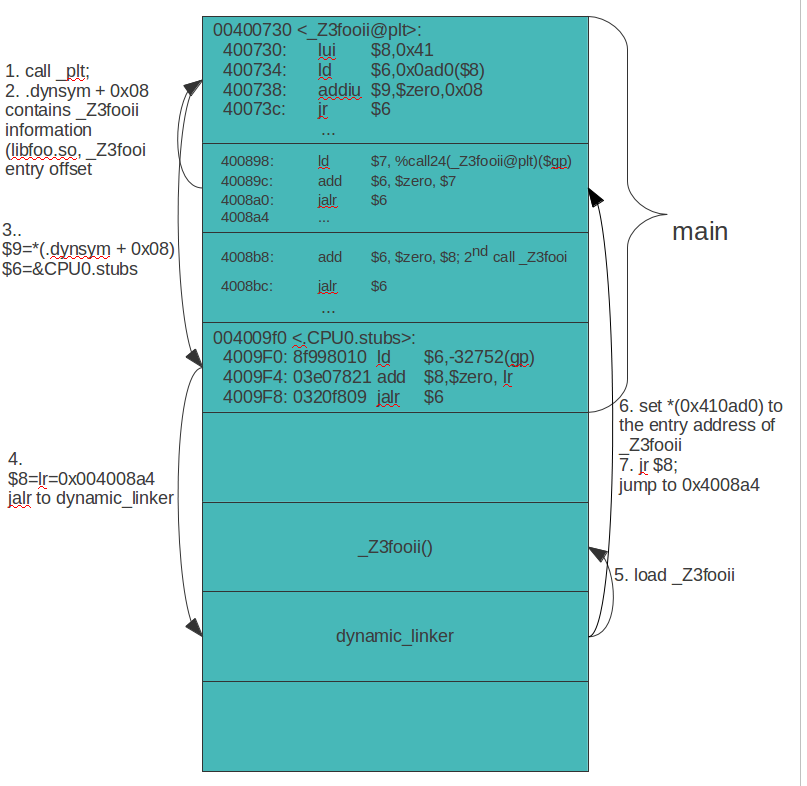
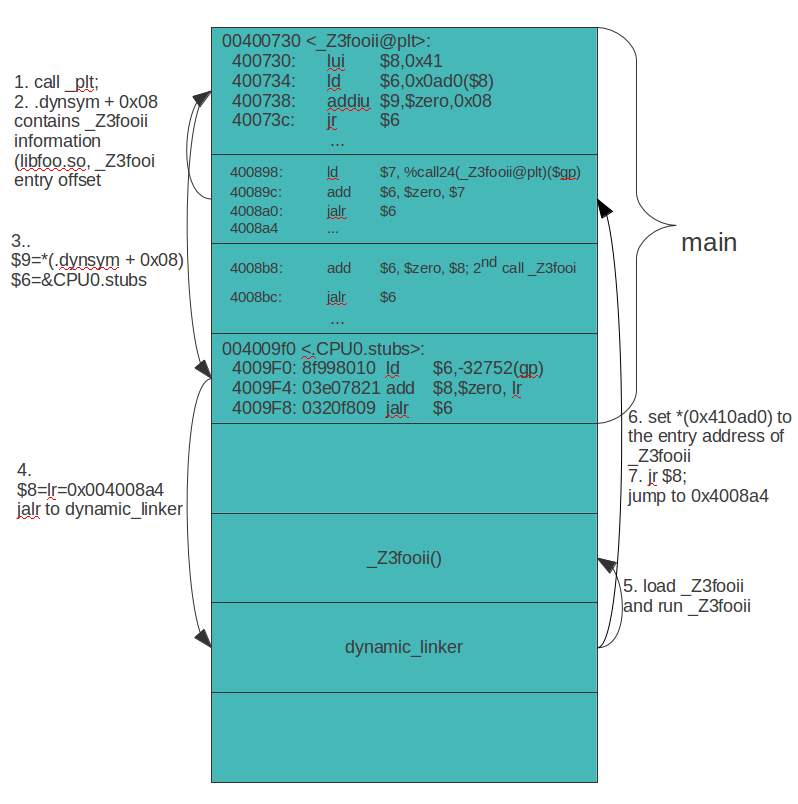
Add dynamic link section in elf.rst

Changed region(s): [[0.0, 0.0, 0.9925, 1.0], [0.4211, 0.7939, 0.5714, 0.8244], [0.4511, 0.6718, 0.5414, 0.7023]]

diff --git a/docs/BackendTutorial/source/elf.rst b/docs/BackendTutorial/source/elf.rst
@@ -954,12 +954,16 @@ Dynamic link
 -------------
 
 We expain how the dynamic link work for Cpu0 even though the Cpu0 linker and 
-dynamic linker are not exist at this point. We have check this implementation 
-by check Mips ABI and lldb or gdb with X86 platform. Finding them all use the 
-plt as the dynamic link implementation. 
+dynamic linker not exist at this point. Same with other parts, Cpu0 dynamic link 
+implementation borrowed from Mips ABI. We trace the dynamic link implementation 
+by lldb on X86 platform. Finding X86 and Mips all use the plt as the dynamic link 
+implementation. 
 
 Linker support
 ~~~~~~~~~~~~~~~
+
+In this section, it shows what's the code that comipler generate to support 
+dynamic link. And what's the code generated by linker for dyanmic link.
 
 Compile main.cpp to get the Cpu0 PIC assembly code as follows,
 
@@ -1052,8 +1056,8 @@ Compile main.cpp to get the Cpu0 PIC assembly code as follows,
   28 R_CPU0_32 .text
 
 Suppost we have the linker which support dynamic link of Cpu0. 
-After linker, the plt for dynamic link function _Z5fooii and _Z3barv will be 
-solved and ELF file will like the following,
+After linker, the plt for dynamic link function _Z5fooii and _Z3barv are 
+solved and the ELF file looks like the following,
 
 .. code-block:: bash
 
@@ -1067,15 +1071,15 @@ solved and ELF file will like the following,
   00400720 <_Z3barv@plt>:
     400720:	lui	$8,0x41
     400724:	ld	$6,0x0acc($8)
-    400728:	jr	$6
-    40072c:	addiu	$9,$8,0x0acc
+    400738:	addiu	$9,$zero,0x18
+    40073c:	jr	$6
   
   00400730 <_Z3fooii@plt>:
     400730:	lui	$8,0x41
     400734:	ld	$6,0x0ado($8)
-    400738:	jr	$6
-    40073c:	addiu	$9,$8,0x0ado
-  ...
+    400738:	addiu	$9,$zero,0x08
+    40073c:	jr	$6
+    ...
   004009f0 <.CPU0.stubs>:
     4009F0: 8f998010  ld	$6,-32752(gp)
     4009F4: 03e07821 add	$8,$zero, lr
@@ -1085,19 +1089,18 @@ solved and ELF file will like the following,
 Principle
 ~~~~~~~~~~
 
-We reserved $9 as the register which content is the function name information.
-It's the offset value at .dynsym section of ELF file. For this example, in 
-_Z3fooii@plt, the contents of address .dynsym+0x08 include the 
-information of dynamic function _Z3fooii. Usually the information include which 
+To support dynamic link, Cpu0 set the protocal as Table registers changed for 
+call dynamic link function _Z3fooii(). The .dynsym+0x08 include the dynamic 
+link function information. Usually the information include which 
 library and the offset value in this library. This information can be got and 
-save in ELF file in link time.
+saved in ELF file in link time.
 
 After the ELF is loaded to memory, it looks like :num:`Figure #elf-f2`
 
 .. _elf-f2:
 .. figure:: ../Fig/elf/2.png
-    :height: 786 px
-    :width: 807 px
+    :height: 804 px
+    :width: 798 px
     :scale: 100 %
     :align: center
 
@@ -1109,48 +1112,53 @@ After the ELF is loaded to memory, it looks like :num:`Figure #elf-f2`
   register/memory                      call _Z3fooii first time                          call _Z3fooii second time
   ===================================  ================================================  ========================================
   0x410ad0                             point to CPU0.stubs                               point to _Z3fooii
-  .dynsym+0x08                         (libfoobar.so, offset, length) about _Z3fooii     -
-  -32752(gp)                           point to dynamic_linker                           -
-  $8                                   the next instruction of _Z3fooii()                -
-  $9                                   the contents of 0x410ad0                          -
-  $6 (at the end of _Z3fooii@plt)      point to CPU0.stubs0                              -
-  $6 (at the end of CPU0.stubs)        point to dynamic_linker                           -
+  .dynsym+0x08                         (libfoobar.so, offset, length) about _Z3fooii     useless
+  -32752(gp)                           point to dynamic_linker                           useless
+  $8                                   the next instruction of _Z3fooii()                useless
+  $9                                   .dynsym+0x08                                      useless
+  $6 (at the end of _Z3fooii@plt)      point to CPU0.stubs0                              point to _Z3fooii
+  $6 (at the end of CPU0.stubs)        point to dynamic_linker                           useless
   ===================================  ================================================  ========================================
 
 Explains it as follows,
 
-1. As you can see, the first time, function call, a = foo(1,2), is implemented 
-   by instruction "ld $7, %call24(_Z3fooii@plt)($gp)", "add $6, $zero, $7" and 
+1. As you can see, the first time of function call, a = foo(1,2), which is 
+   implemented 
+   by instructions "ld $7, %call24(_Z3fooii@plt)($gp)", "add $6, $zero, $7" and 
    "jalr $6". Remember, .dynsym+0x08 contains information (libfoobar.so, 
-   offset, length) whick set at link to dynamic shared library.
+   offset, length) which is set by linker at link to dynamic shared library.
    After "jalr $6", PC counter jump to "00400730 <_Z3fooii@plt>". 
 
 2. The memory 0x410ad0 contents is the address of CPU0.stubs when the program, 
    main(), is loaded. 
 
-3. After this plt instructions executed, it jump to CPU0.stubs since $6 = the 
+3. After _Z3fooii@plt instructions executed, it jump to CPU0.stubs since $6 = the 
    address of CPU0.stubs. Register $9 = the contents of address .dynsym+0x08 since
    it is set in step 1. 
 
 4. After CPU0.stubs is executed, register $8 = 0x004008a4 which point to the 
-   next instruction of step 1.
+   caller next instruction in step 1.
 
-5. Dynamic linker look into register $9 which value is 0x08. It ask OS for 
+5. Dynamic linker looks into register $9 which value is 0x08. It ask OS for 
    the caller process address information of .dynsym + offset 0x08. This 
-   information (libfoobar.so, offset, length) tells where can get _Z3fooii 
-   function body. Dynamic linker load _Z3fooii() function body to an available 
-   address by asking OS. 
+   address include information (libfoobar.so, offset, length). With this 
+   information, dynamic linker knows where can get _Z3fooii function body. 
+   Dynamic linker loads _Z3fooii() function body to an available 
+   address where from asking OS. After load _Z3fooii(), it call _Z3fooii() and
+   save and restore the registers $6, $8, $9 and caller saved registers just 
+   before and after call _Z3fooii().
 
-6. Set the contents of address 0x410ad0 to the entry address of _Z3fooii in 
-   memory.
+6. After _Z3fooii() return, dynamic linker set the contents of address 0x410ad0 
+   to the entry address of _Z3fooii in memory.
 
-7. Execute jr $8. It jump to the next instruction of "a = _Z3fooi();" in caller.
-
+7. Dynamic linker execute jr $8. It jump to the next instruction of 
+   "a = _Z3fooii();" in caller.
 
 After the _Z3fooii() is called at second time, it looks like 
 :num:`Figure #elf-f3`. It jump to _Z3fooii() directly in <_Z3fooii@plt> since 
 the contents of address 0x410ad0 is changed to the memory address of _Z3fooii() 
-at step 6 of :num:`Figure #elf-f2`.
+at step 6 of :num:`Figure #elf-f2`. From now on, any call _Z3fooii() will
+jump to _Z3fooii() directly from _Z3fooii@plt instructions.
 
 .. _elf-f3:
 .. figure:: ../Fig/elf/3.png
@@ -1168,25 +1176,17 @@ used in jalr $25 for long distance function pointer (far subroutine call).
 Cpu0 use register $6 as the $t9 ($25) register of Mips.
 The jal %subroutine has 24 bits range of address offset relative to Program 
 Counter (PC) while jalr has 32 bits address range in register size of 32 bits. 
-One example of PIC mode is used in share library. 
+One example of PIC mode is used in share library just like this example. 
 Share library is re-entry code which can be loaded in different memory address 
 decided on run time. The jalr make the implementation of dynamic link function 
-easier and faster as below.
+easier and faster as above.
 
-To support dynamic funciton, Cpu0 backend generate jalr instead of jal.
-If use jal instead of jalr to call dynamic function, the relocation record 
-"jal pc_offset" need to be solved at run time in "SYSCALL call##fun()". 
-That's why Mips ABI use "jalr" and register %6 for dynamic function. 
-In addition to dynamic function, the jalr is 32 bits 
-addressable while jal is 24 bits addressable. The caller jalr can also be 
-used in static link. If jalr is used in static link, the linker can solve 
-the relocation record of "ld $6, %call32(fun)($gp)" in link time.
 
 Trace with lldb
 ~~~~~~~~~~~~~~~~
 
 We tracking the dynamic link on X86 as below. You can skip it if you have no 
-interest and already know how to track via lldb or gdb.
+interest or already know how to track it via lldb or gdb.
  
 .. code-block:: bash
 
